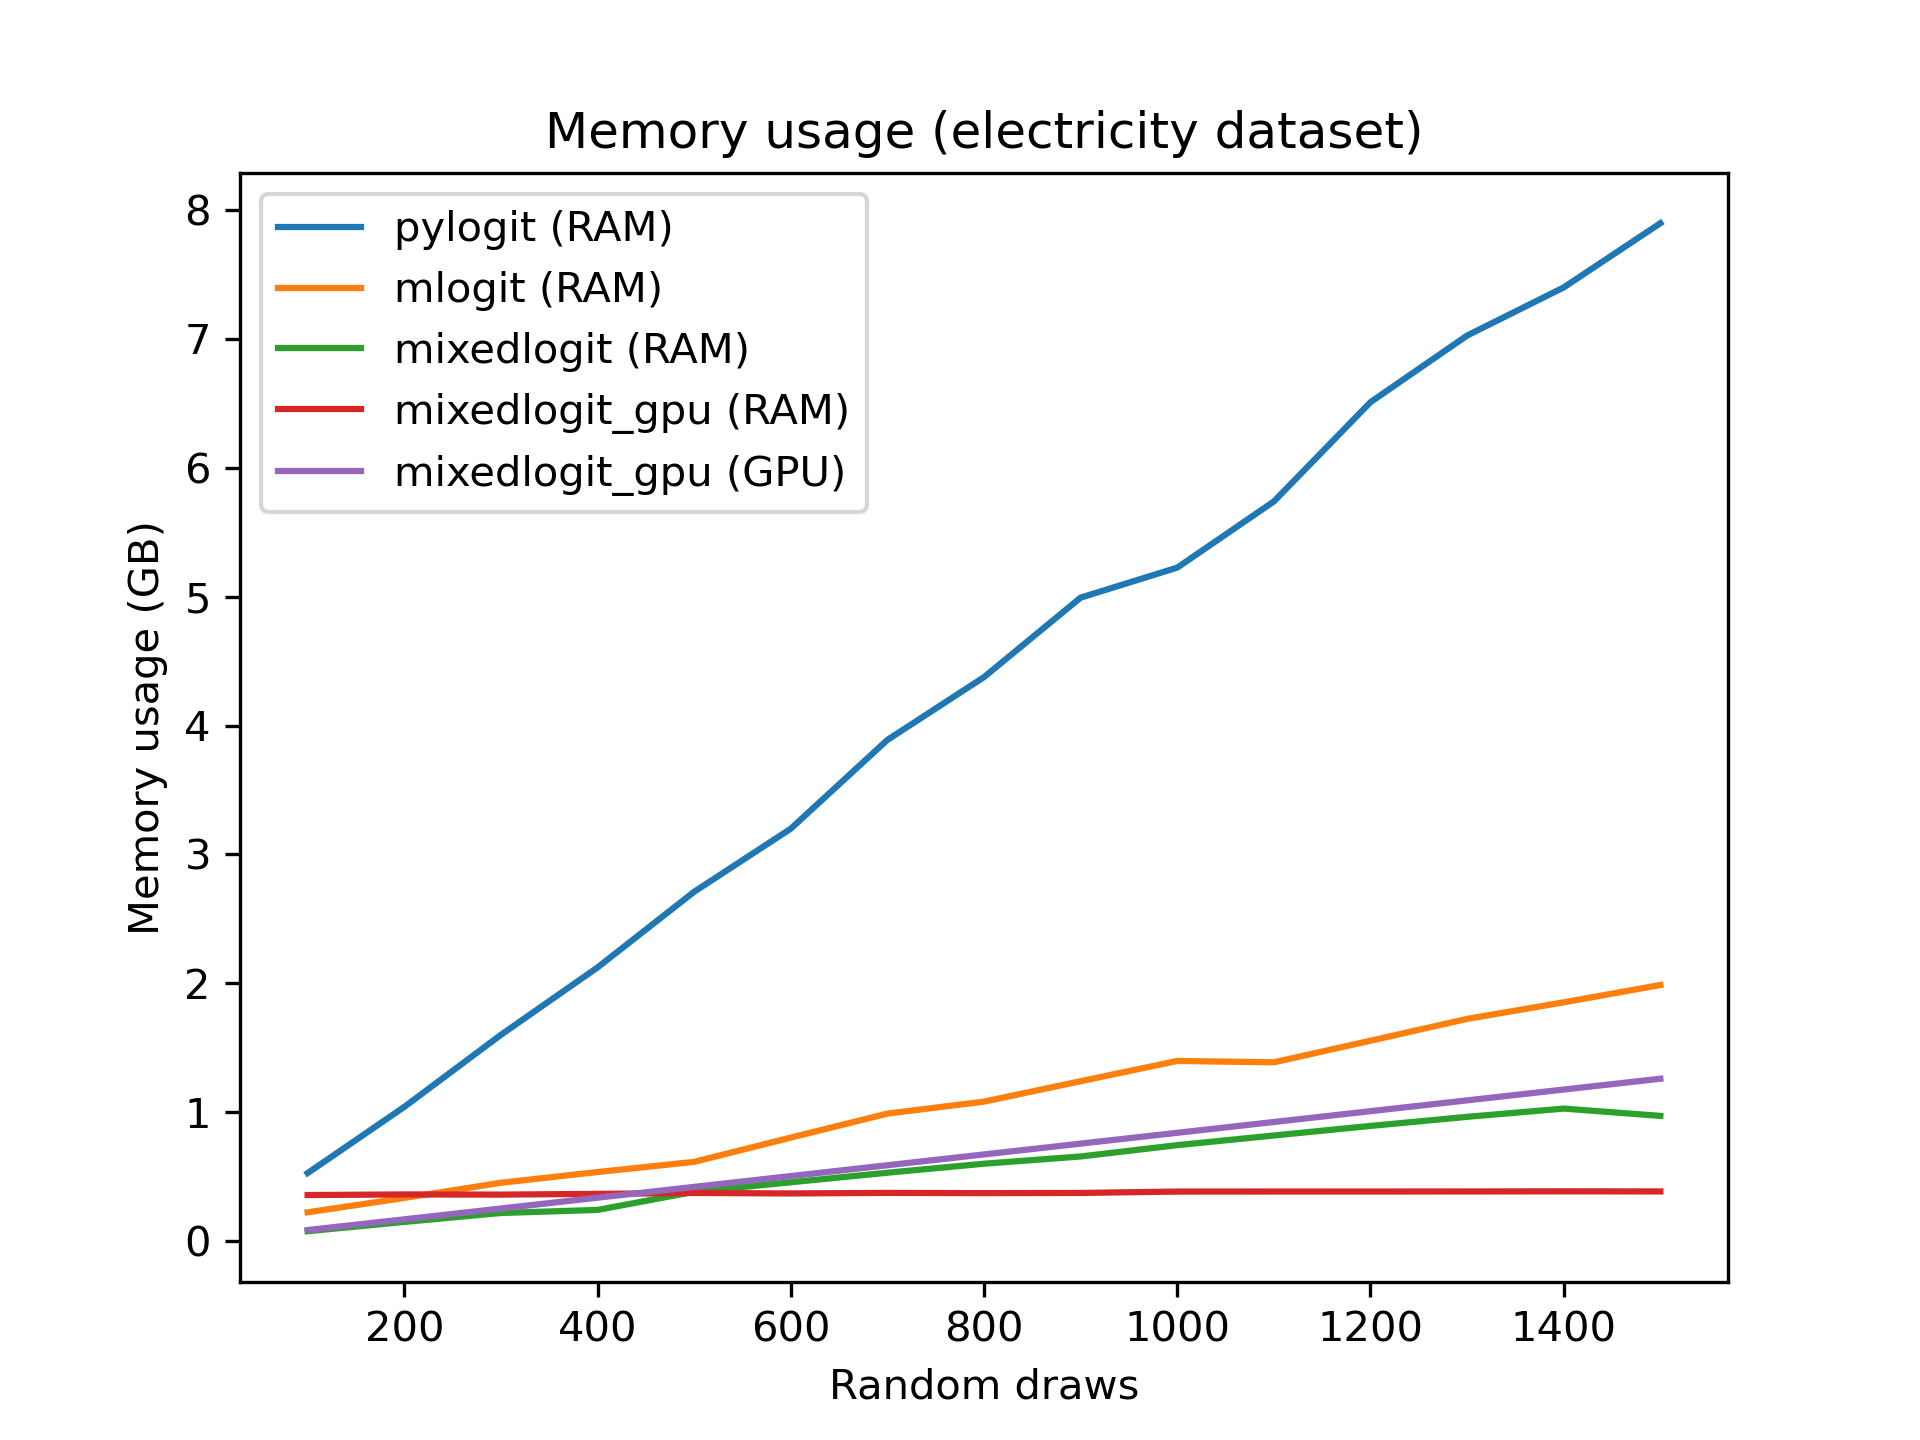
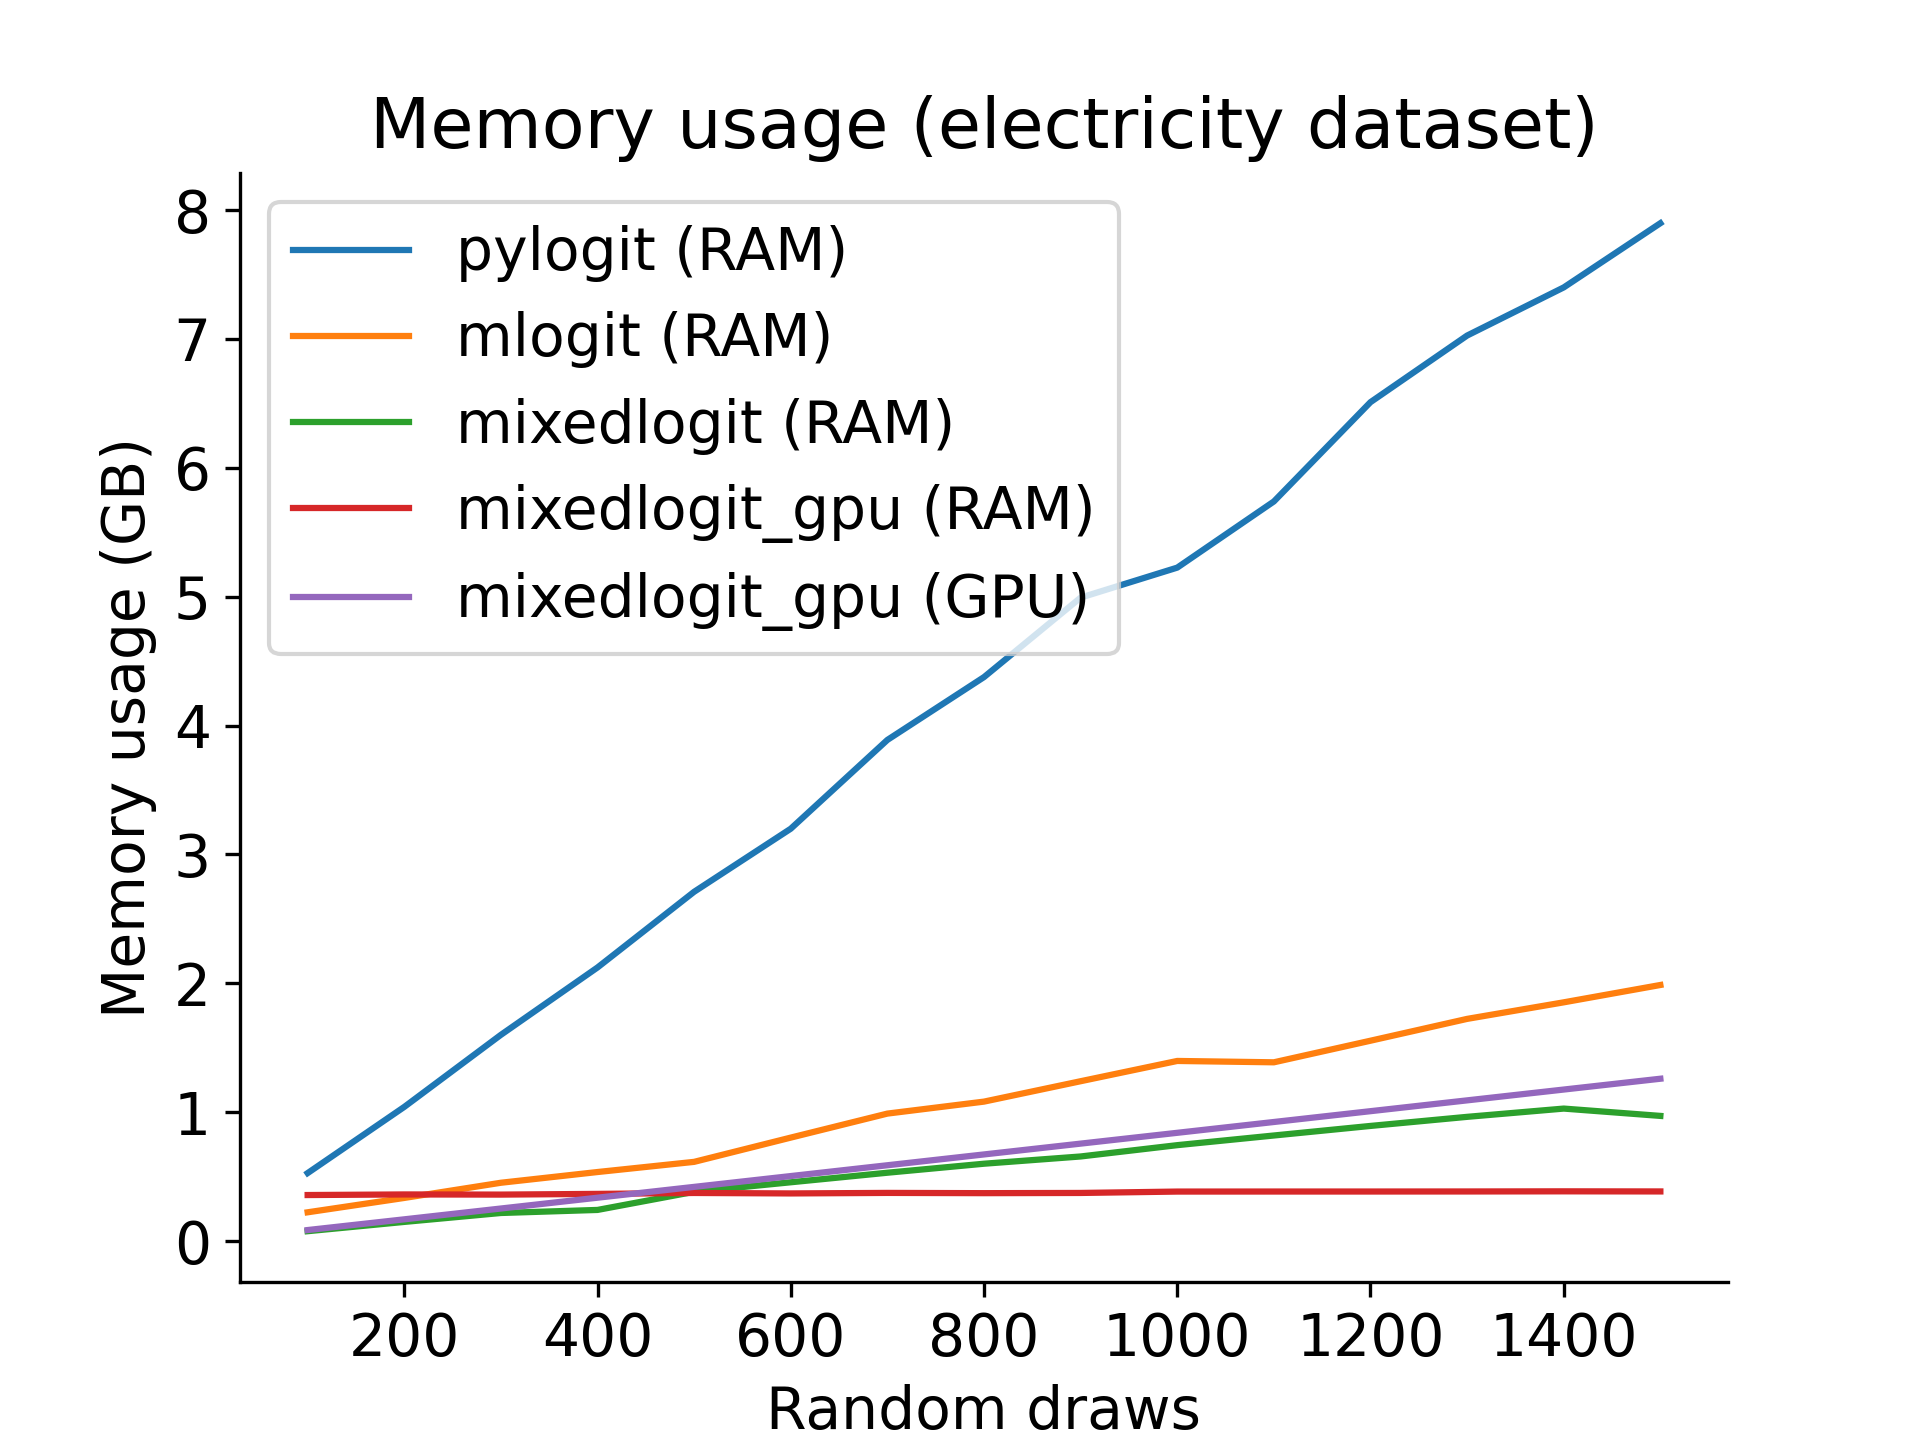
Profiling results updated

diff --git a/examples/benchmark/benchmark.py b/examples/benchmark/benchmark.py
@@ -35,12 +35,12 @@ profile_range_draws("Rscript mlogit_run.R", r_draws, "electricity")
 
 # Print estimates
 
-print_estimates("python mixedlogit_run.py", 200, "artificial")
-print_estimates("python pylogit_run.py", 200, "artificial")
-print_estimates("Rscript mlogit_run.R", 200, "artificial")
-print_estimates("python mixedlogit_run.py", 700, "electricity")
-print_estimates("python pylogit_run.py", 700, "electricity")
-print_estimates("Rscript mlogit_run.R", 700, "electricity")
+print_estimates("python mixedlogit_run.py", 400, "artificial")
+print_estimates("python pylogit_run.py", 400, "artificial")
+print_estimates("Rscript mlogit_run.R", 400, "artificial")
+print_estimates("python mixedlogit_run.py", 900, "electricity")
+print_estimates("python pylogit_run.py", 900, "electricity")
+print_estimates("Rscript mlogit_run.R", 900, "electricity")
 
 # Plot profiling results
 os.system("python plot_profiling_results.py")

diff --git a/examples/benchmark/plot_profiling_results.py b/examples/benchmark/plot_profiling_results.py
@@ -1,9 +1,13 @@
 import matplotlib.pyplot as plt
+import matplotlib
 import pandas as pd
 
 df = pd.read_csv("results/profiling_results.csv")
 
 libs = ['pylogit', 'mlogit', 'mixedlogit', 'mixedlogit_gpu']
+matplotlib.rcParams.update({'font.size': 14,
+                            'axes.spines.right': False,
+                            'axes.spines.top': False})
 
 
 def plot_memory_benchmark(dataset):
